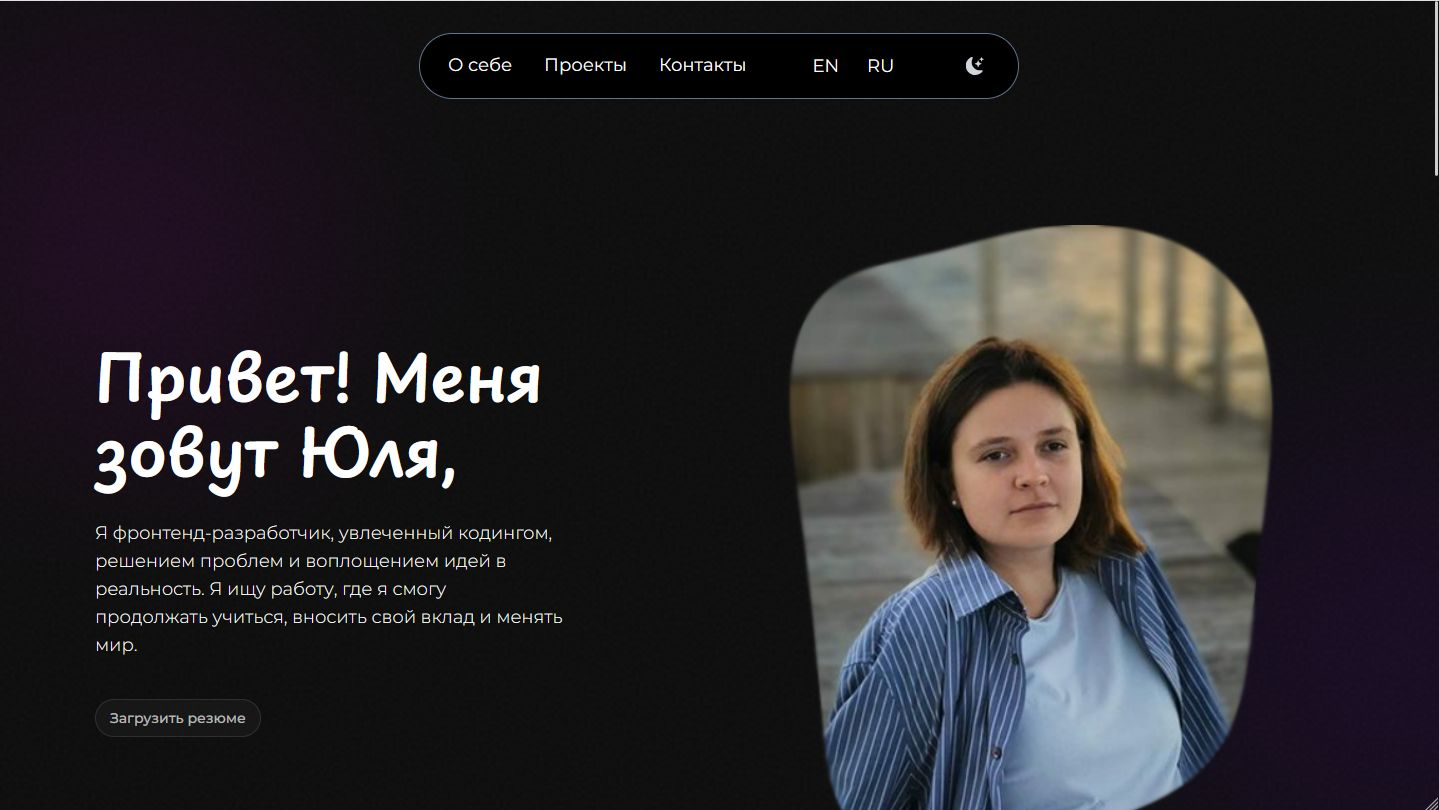
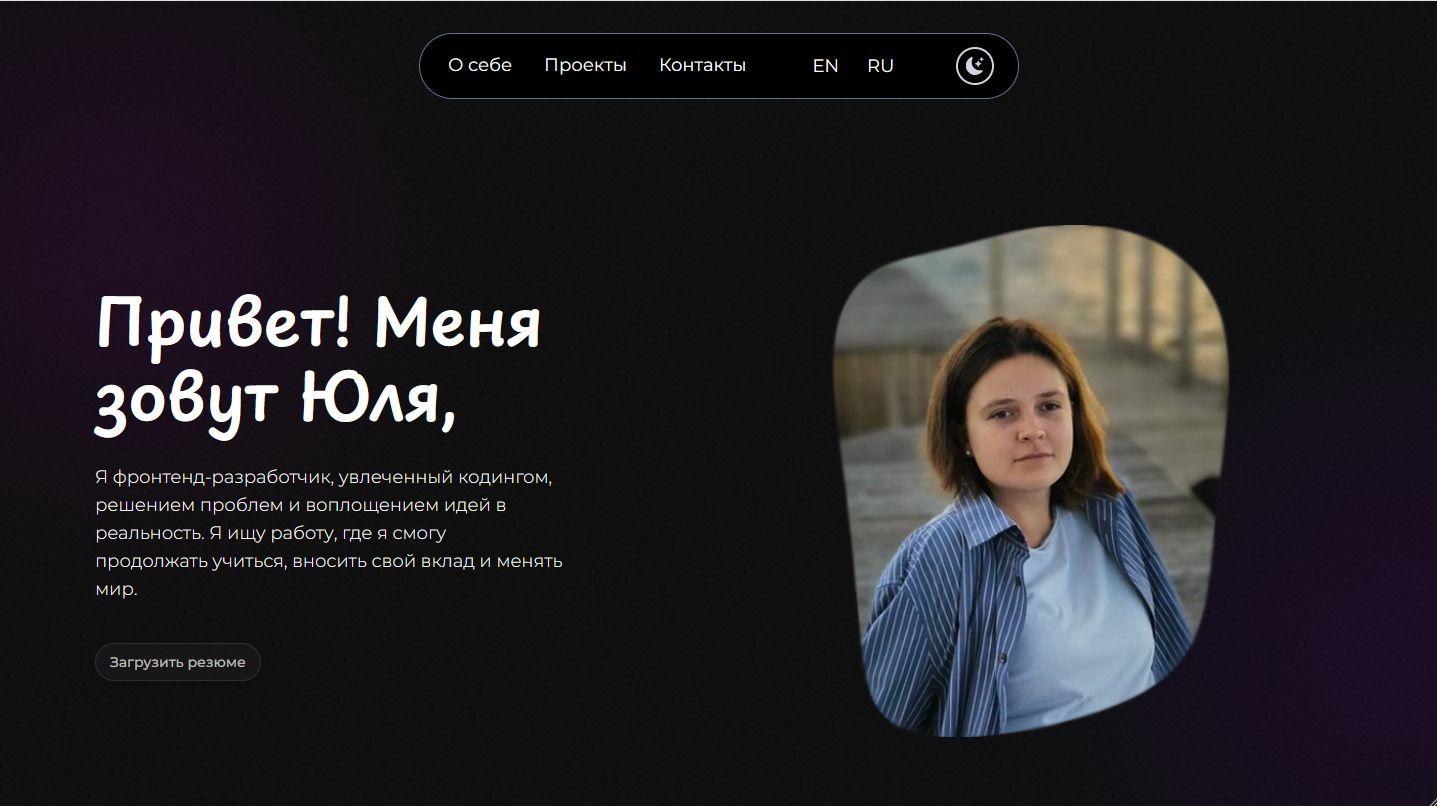
Minor styles change

diff --git a/src/components/blocks/hero.jsx b/src/components/blocks/hero.jsx
@@ -27,8 +27,8 @@ function Hero () {
                     {t("global.resume")}
                 </button>
             </div>
-            <img className="h-auto max-w-2/6 md:w-4/10 md:max-w-80 lg:max-w-lg mb-10 md:mb-0 mx-auto hidden dark:block" src={darkThemedFoto} alt="My foto"/>
-            <img className="h-auto max-w-2/6 md:w-4/10 md:max-w-80 lg:max-w-lg mb-10 md:mb-0 mx-auto block dark:hidden" src={lightThemedFoto} alt="My foto"/>
+            <img className="h-auto max-h-[512px] max-w-2/6 md:w-4/10 md:max-w-80 lg:max-w-lg object-contain mb-10 md:mb-0 mx-auto hidden dark:block" src={darkThemedFoto} alt="My foto"/>
+            <img className="h-auto max-h-[512px] max-w-2/6 md:w-4/10 md:max-w-80 lg:max-w-lg object-contain mb-10 md:mb-0 mx-auto block dark:hidden" src={lightThemedFoto} alt="My foto"/>
         </section>
     )
 }

diff --git a/src/components/ui/project-card.jsx b/src/components/ui/project-card.jsx
@@ -29,8 +29,8 @@ function ProjectCard ({card}) {
                 </a>
             </div>
             {card.inProgress && 
-                <div className='absolute top-0 bg-amber-200 -rotate-45 p-3.5 w-80 flex justify-center -translate-x-22 translate-y-10'>
-                    <span>{t(`projects.${card.translate}.inProgress`)}</span>
+                <div className='absolute top-0 bg-amber-200 -rotate-45 p-3.5 w-52 lg:w-80 flex justify-center -translate-x-15 translate-y-6 lg:-translate-x-22 lg:translate-y-10'>
+                    <span className='text-xs lg:text-base'>{t(`projects.${card.translate}.inProgress`)}</span>
                 </div>
             }
         </div>
